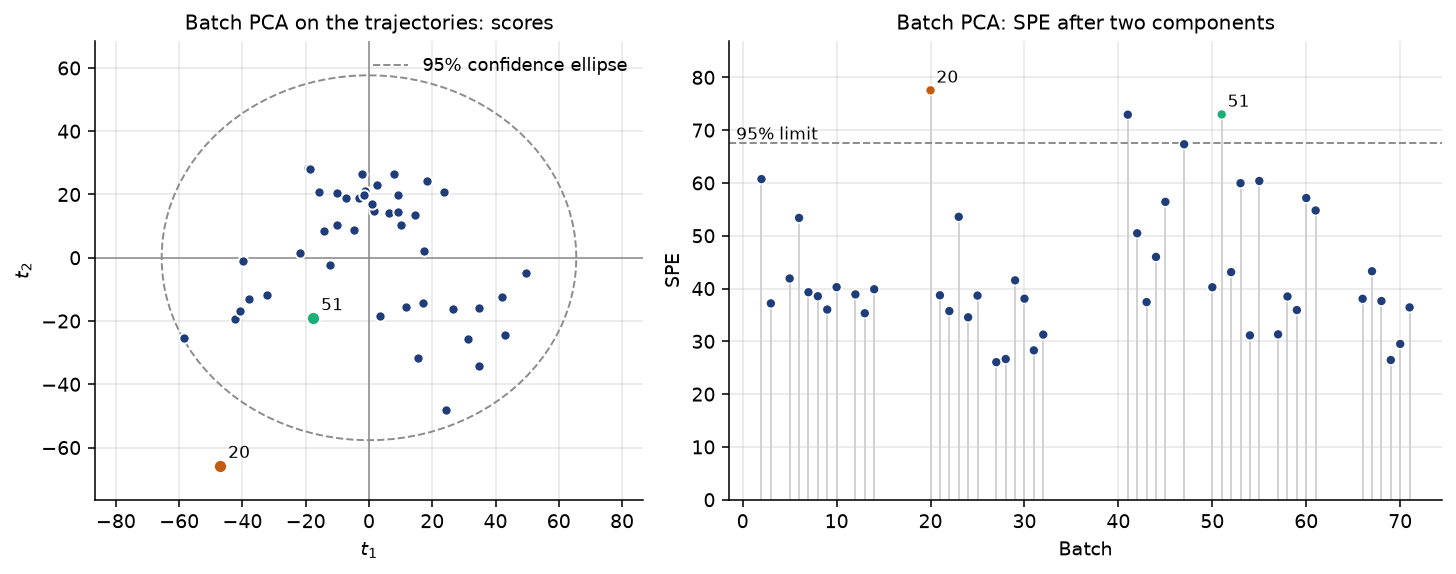
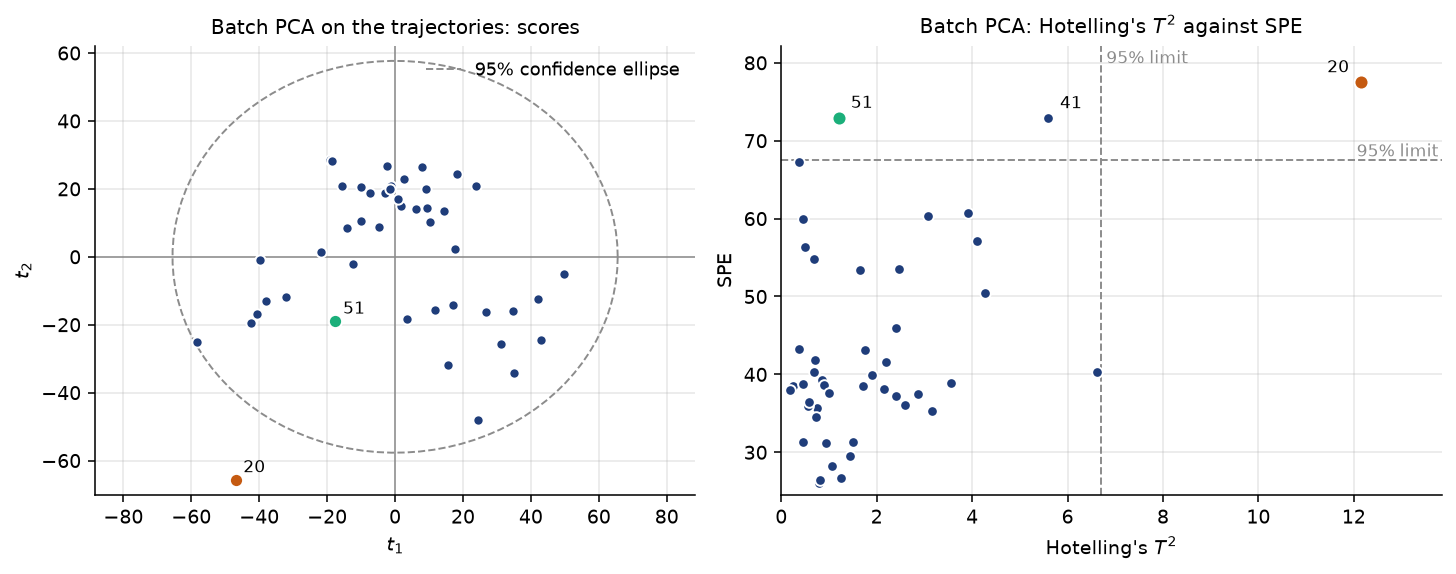
Plot Hotelling's T2 against SPE instead of SPE against batch number
The SPE plots put the batch number on the horizontal axis, which is the
order the batches happen to appear in the file rather than a property of the
batch, and drew a stem down to zero from every dot, which encodes nothing
beyond the dot's own position.

Both statistics now share one figure: Hotelling's T2, how far a batch sits
along the model's components, against the SPE, how far it sits away from
them, with each 95% limit as a reference line. The quadrants separate the two
kinds of unusual batch, and on this data they do so cleanly. In the DuPont
model A, batch 49 has the largest SPE of all 55 batches with a T2 of 0.4,
while batches 50 and 52 to 55 are beyond the T2 limit with residuals below
the SPE limit. In the FMC batch PCA, batch 20 is the only batch above both
limits.

Colour in the DuPont figures now marks which of the two limits a batch
exceeds, which also corrects the score plot: batch 51 is inside the 95%
confidence ellipse, not outside it as the six-batch grouping implied. The
SBR figure labels all three batches above its SPE limit, 8, 15 and 16.

Claude-Session: https://claude.ai/code/session_01LXthGpHLQFfGubBiKFtGAE

diff --git a/batch/batch_case_common.py b/batch/batch_case_common.py
@@ -119,7 +119,7 @@ def score_plot(
     return fig
 
 
-def spe_plot(
+def influence_plot(
     model,
     *,
     highlight: dict[int, str] | None = None,
@@ -128,24 +128,53 @@ def spe_plot(
     title: str = "",
     ax=None,
 ) -> Figure:
-    """SPE of every batch after the last component, with the limit; selected batches coloured and labelled."""
+    """Hotelling's T2 against SPE for every batch, with both limits drawn.
+
+    Each batch is one dot: how far it sits *along* the model's components
+    (Hotelling's T2, horizontal) against how far it sits *away* from them (SPE,
+    vertical). The two limits split the plot into quadrants, which separates a
+    batch that is extreme in a direction the model knows from one the model
+    cannot describe. Plotting either statistic against the batch number instead
+    would put the order the batches happen to appear in on an axis, which
+    carries no information about the batch.
+    """
     if ax is None:
-        fig, ax = plt.subplots(figsize=FIGSIZE_WIDE)
+        fig, ax = plt.subplots(figsize=(5.4, 4.4))
     else:
         fig = ax.figure
+    t2 = model.hotellings_t2_.iloc[:, -1]
     spe = model.spe_.iloc[:, -1]
-    limit = float(model.spe_limit(conf_level=conf_level))
+    t2_limit = float(model.hotellings_t2_limit(conf_level=conf_level))
+    spe_limit = float(model.spe_limit(conf_level=conf_level))
     highlight = highlight or {}
-    colours = [highlight.get(b, DARK_BLUE) for b in spe.index]
-    ax.vlines(spe.index, 0, spe.to_numpy(), color=PALE_GREY, lw=1)
-    ax.scatter(spe.index, spe.to_numpy(), s=26, color=colours, edgecolor="white", linewidth=0.8, zorder=3)
-    ax.axhline(limit, color=GREY, ls="--", lw=1)
-    ax.text(0.01, limit, f"{conf_level:.0%} limit", transform=ax.get_yaxis_transform(), va="bottom", ha="left", fontsize=8.5)
+
+    x_max = max(float(t2.max()), t2_limit) * 1.14
+    y_min, y_max = float(spe.min()) * 0.94, max(float(spe.max()), spe_limit) * 1.06
+    ax.set_xlim(0, x_max)
+    ax.set_ylim(y_min, y_max)
+
+    ax.axvline(t2_limit, color=GREY, ls="--", lw=1)
+    ax.axhline(spe_limit, color=GREY, ls="--", lw=1)
+    ax.text(t2_limit, 0.99, f" {conf_level:.0%} limit", transform=ax.get_xaxis_transform(), va="top", ha="left", fontsize=8.5, color=GREY)
+    ax.text(0.995, spe_limit, f"{conf_level:.0%} limit", transform=ax.get_yaxis_transform(), va="bottom", ha="right", fontsize=8.5, color=GREY)
+
+    others = [batch_id for batch_id in t2.index if batch_id not in highlight]
+    ax.scatter(t2.loc[others], spe.loc[others], s=30, color=DARK_BLUE, edgecolor="white", linewidth=1, zorder=3)
+    for batch_id, colour in highlight.items():
+        ax.scatter(t2.loc[batch_id], spe.loc[batch_id], s=52, color=colour, edgecolor="white", linewidth=1, zorder=4)
     for batch_id in labels or []:
-        ax.annotate(str(batch_id), (batch_id, spe.loc[batch_id]), xytext=(3, 4), textcoords="offset points", fontsize=8.5)
-    ax.set_xlabel("Batch")
+        to_the_left = float(t2.loc[batch_id]) > 0.82 * x_max
+        ax.annotate(
+            str(batch_id),
+            (t2.loc[batch_id], spe.loc[batch_id]),
+            xytext=(-6, 5) if to_the_left else (6, 5),
+            textcoords="offset points",
+            ha="right" if to_the_left else "left",
+            fontsize=8.5,
+        )
+
+    ax.set_xlabel("Hotelling's $T^2$")
     ax.set_ylabel("SPE")
-    ax.set_ylim(0, max(float(spe.max()), limit) * 1.12)
     ax.set_title(title)
     return fig
 

diff --git a/batch/batch-case-dupont-figures.py b/batch/batch-case-dupont-figures.py
@@ -25,12 +25,15 @@ import pathlib
 import sys
 
 import matplotlib.pyplot as plt
-from batch_case_common import AQUA, DARK_BLUE, ORANGE, contribution_triptych, overlay_panels, save, score_plot, spe_plot, tag_panels
+from batch_case_common import AQUA, DARK_BLUE, GREY, ORANGE, contribution_triptych, influence_plot, overlay_panels, save, score_plot, tag_panels
 
 from process_improve.batch import BatchPCA, load_dupont
 
 SPE_OUTLIER = 49
-SCORE_OUTLIERS = [50, 51, 52, 53, 54, 55]
+LAST_SIX = [50, 51, 52, 53, 54, 55]
+ABOVE_SPE_LIMIT = [49, 51]  # a residual the two components cannot describe
+ABOVE_T2_LIMIT = [50, 52, 53, 54, 55]  # extreme along the components themselves
+FLAGGED = {**{b: AQUA for b in ABOVE_T2_LIMIT}, **{b: ORANGE for b in ABOVE_SPE_LIMIT}}
 SECOND_CLUSTER = [37, 39, 43, 44, 45, 46, 47, 48]
 POOR_QUALITY_NOT_VISIBLE = [38, 40, 41, 42]
 
@@ -42,10 +45,10 @@ def main(out_dir: pathlib.Path) -> None:
     save(fig, out_dir, "batch-case-dupont-raw-trajectories")
 
     model_a = BatchPCA(n_components=2).fit(batches)
-    fig = score_plot(model_a, highlight={**{b: AQUA for b in SCORE_OUTLIERS}, SPE_OUTLIER: ORANGE}, labels=[*SCORE_OUTLIERS, SPE_OUTLIER], title="Model A: 55 batches, two components")
+    fig = score_plot(model_a, highlight=FLAGGED, labels=LAST_SIX + [SPE_OUTLIER], title="Model A: 55 batches, two components")
     save(fig, out_dir, "batch-case-dupont-model-a-scores")
-    fig = spe_plot(model_a, highlight={SPE_OUTLIER: ORANGE}, labels=[SPE_OUTLIER], title="Model A: SPE after two components")
-    save(fig, out_dir, "batch-case-dupont-model-a-spe")
+    fig = influence_plot(model_a, highlight=FLAGGED, labels=ABOVE_SPE_LIMIT + ABOVE_T2_LIMIT, title="Model A: Hotelling's $T^2$ against SPE")
+    save(fig, out_dir, "batch-case-dupont-model-a-influence")
 
     scaled = model_a.unfold_and_scale(batches)
     squared = model_a.spe_contributions(scaled) ** 2
@@ -90,9 +93,9 @@ def main(out_dir: pathlib.Path) -> None:
     excluded = set(range(SPE_OUTLIER, 56)) | set(SECOND_CLUSTER)
     kept_c = {b: batch for b, batch in batches.items() if b not in excluded}
     model_c = BatchPCA(n_components=3).fit(kept_c)
-    fig, axes = plt.subplots(1, 2, figsize=(10.5, 4.2), gridspec_kw={"width_ratios": [1, 1.3]})
+    fig, axes = plt.subplots(1, 2, figsize=(10.5, 4.2), gridspec_kw={"width_ratios": [1, 1.1]})
     score_plot(model_c, highlight={b: ORANGE for b in POOR_QUALITY_NOT_VISIBLE}, labels=POOR_QUALITY_NOT_VISIBLE, title="Model C: 40 batches, scores", ax=axes[0])
-    spe_plot(model_c, highlight={b: ORANGE for b in POOR_QUALITY_NOT_VISIBLE}, labels=POOR_QUALITY_NOT_VISIBLE, title="Model C: SPE after three components", ax=axes[1])
+    influence_plot(model_c, highlight={b: ORANGE for b in POOR_QUALITY_NOT_VISIBLE}, labels=POOR_QUALITY_NOT_VISIBLE, title="Model C: Hotelling's $T^2$ against SPE", ax=axes[1])
     fig.tight_layout()
     save(fig, out_dir, "batch-case-dupont-model-c")
 

diff --git a/batch/batch-case-fmc-figures.py b/batch/batch-case-fmc-figures.py
@@ -26,7 +26,7 @@ import sys
 
 import matplotlib.pyplot as plt
 import numpy as np
-from batch_case_common import AQUA, DARK_BLUE, GREY, ORANGE, contribution_triptych, overlay_panels, parity_plot, save, score_plot, spe_plot, tag_panels
+from batch_case_common import AQUA, DARK_BLUE, GREY, ORANGE, contribution_triptych, influence_plot, overlay_panels, parity_plot, save, score_plot, tag_panels
 
 from process_improve.batch import dict_to_wide, load_fmc
 from process_improve.multivariate import PCA, PLS, MCUVScaler
@@ -94,9 +94,9 @@ def main(out_dir: pathlib.Path) -> None:
     squared = pca_x.spe_contributions(x_scaled) ** 2
     complete = squared.dropna(how="all").index
     worst = int(pca_x.spe_.loc[complete].iloc[:, -1].idxmax())
-    fig, axes = plt.subplots(1, 2, figsize=(10.5, 4.2), gridspec_kw={"width_ratios": [1, 1.3]})
+    fig, axes = plt.subplots(1, 2, figsize=(10.5, 4.2), gridspec_kw={"width_ratios": [1, 1.1]})
     score_plot(pca_x, highlight={OPERATING_OUTLIER: ORANGE, worst: AQUA}, labels=[OPERATING_OUTLIER, worst], title="Batch PCA on the trajectories: scores", ax=axes[0])
-    spe_plot(pca_x, highlight={OPERATING_OUTLIER: ORANGE, worst: AQUA}, labels=[OPERATING_OUTLIER, worst], title="Batch PCA: SPE after two components", ax=axes[1])
+    influence_plot(pca_x, highlight={OPERATING_OUTLIER: ORANGE, worst: AQUA}, labels=[OPERATING_OUTLIER, worst, 41], title="Batch PCA: Hotelling's $T^2$ against SPE", ax=axes[1])
     fig.tight_layout()
     save(fig, out_dir, "batch-case-fmc-batch-pca")
 

diff --git a/batch/batch-case-sbr-figures.py b/batch/batch-case-sbr-figures.py
@@ -28,13 +28,14 @@ import pathlib
 
 import matplotlib.pyplot as plt
 import numpy as np
-from batch_case_common import AQUA, DARK_BLUE, ORANGE, contribution_triptych, overlay_panels, parity_plot, save, score_plot, spe_plot, tag_panels
+from batch_case_common import AQUA, DARK_BLUE, ORANGE, contribution_triptych, influence_plot, overlay_panels, parity_plot, save, score_plot, tag_panels
 
 from process_improve.batch import BatchPLS, load_sbr
 
 FAULT_FROM_START = 37
 FAULT_PARTWAY = 34
 HIGHLIGHT = {FAULT_PARTWAY: ORANGE, FAULT_FROM_START: AQUA}
+SPE_OUTLIERS = [8, 15, 16]  # flagged by the SPE, and not the batches carrying the injected fault
 
 
 def main(out_dir: pathlib.Path, data_url: str | None) -> None:
@@ -47,7 +48,7 @@ def main(out_dir: pathlib.Path, data_url: str | None) -> None:
 
     model = BatchPLS(n_components=2).fit(trajectories, quality)
     save(score_plot(model, highlight=HIGHLIGHT, labels=list(HIGHLIGHT), title="Batch PLS: scores of the 53 batches"), out_dir, "batch-case-sbr-scores")
-    save(spe_plot(model, highlight=HIGHLIGHT, labels=list(HIGHLIGHT), title="Batch PLS: SPE after two components"), out_dir, "batch-case-sbr-spe")
+    save(influence_plot(model, highlight=HIGHLIGHT, labels=[*HIGHLIGHT, *SPE_OUTLIERS], title="Batch PLS: Hotelling's $T^2$ against SPE"), out_dir, "batch-case-sbr-influence")
 
     r2_grid = model.r2_per_variable_.iloc[:, -1].unstack(level="sequence").reindex(index=model.tag_names_)
     fig = tag_panels(r2_grid, ylabel="$R^2$", ncols=3)
